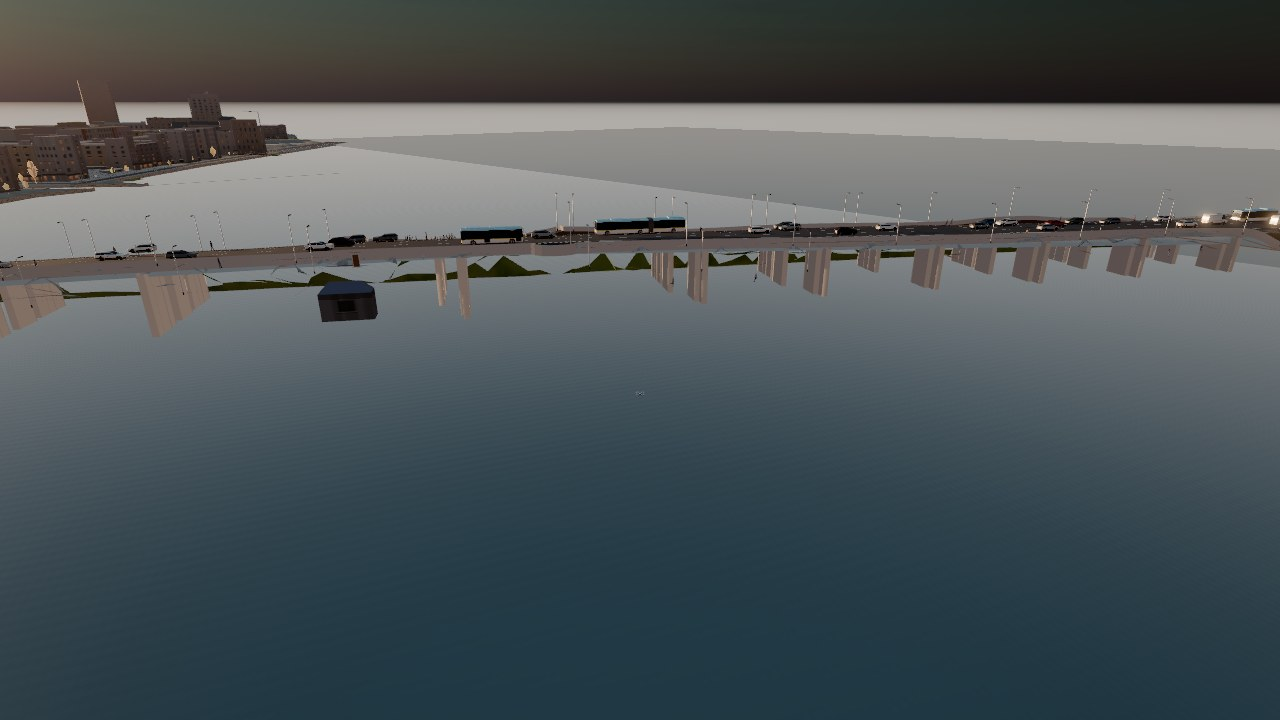
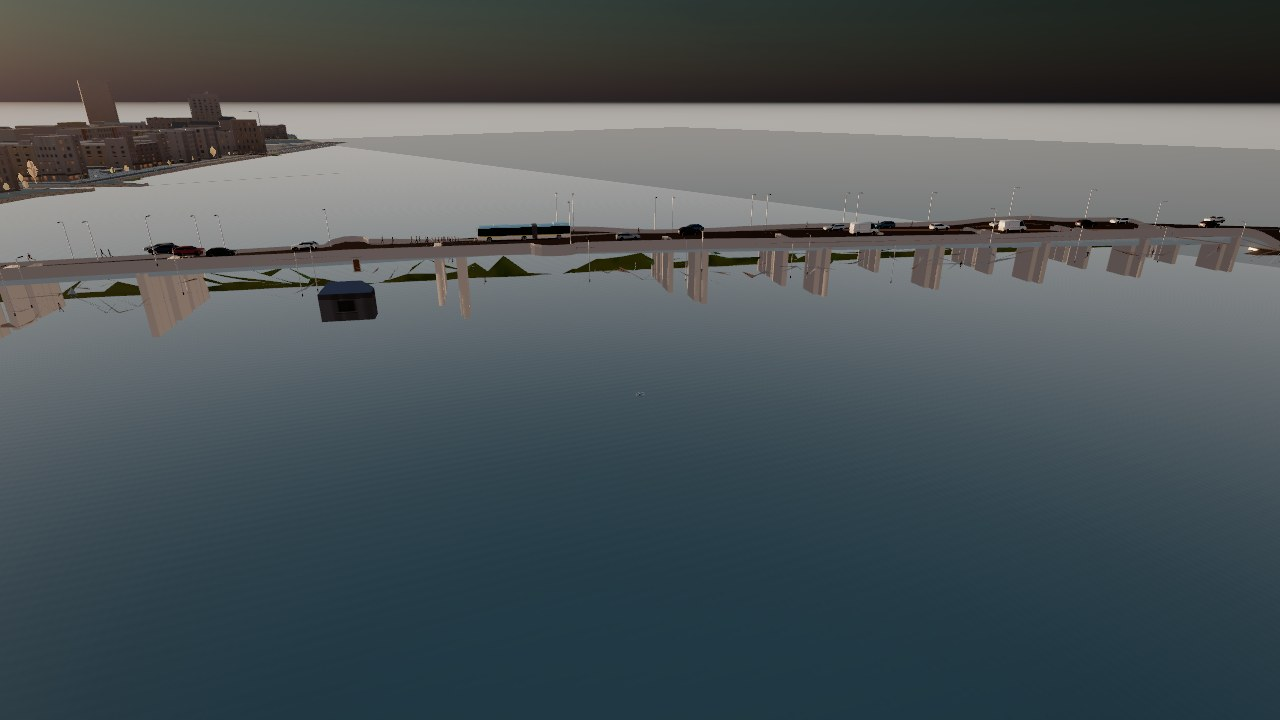
Cut the terrain under bridge decks
The compiled terrain carried many bridges (a ridge across the fjord, a mound
over the railway at Vesterbro), so tracks and road markings ran over the
decks. city_structures.py now sets the terrain under every deck to the
ground beside it, across the nearest carried way (the bed, 1 m under the
water, over water), lowering only: 5,341 cells in 11 tiles. Deck heights
are measured before the cut; each tile's original terrain is kept in
data/city/work/terrain_orig/ so a rerun gives the same result. The decks'
ground and the tracks are taken from the cut terrain.

Furniture stands on the decks again (the lamps on a bridge stay on it), and
the tree build drops any tree inside a deck's footprint. Ground off the
compiled terrain keeps its earlier value (no NaN in the layer).

Changed region(s): [[0.0625, 0.275, 1.0, 0.3972], [0.0312, 0.3972, 0.125, 0.4278], [0.0, 0.3667, 0.0312, 0.3972]]

diff --git a/js/world.js b/js/world.js
@@ -760,9 +760,6 @@ async function buildStreamedWorld(scene, store, { markInit, debug, water, treeDa
   // bridge decks and railway tracks (the `structures` layer): the ground model stands on the decks (js/deck-field.js withDecks), so the
   // agents, the furniture and the player drive and walk over a bridge; levelAt keeps what passes under it under it
   const deckField = createDeckField();
-  // the ground without the decks: street furniture stands on it (a tree beside or under a bridge is not on its deck; where the terrain
-  // carries a bridge, as across the fjord, the lamps on it stand on the deck all the same)
-  const groundOffDecks = { heightAt: tiledHeight.heightAt, terrainAt: tiledHeight.terrainAt };
   Object.assign(tiledHeight, withDecks(deckField, { heightAt: tiledHeight.heightAt, terrainAt: tiledHeight.terrainAt }));
   if (!flags.has('nostructures')) {
     const structures = createStructuresLayer(scene, { field: deckField });
@@ -823,7 +820,7 @@ async function buildStreamedWorld(scene, store, { markInit, debug, water, treeDa
 
   let furniture = null;
   if (roads && !flags.has('nofurniture') && city.meta.furniture) {
-    furniture = createStreetFurniture(scene, null, { streaming: true, treeDate, groundHeight: groundOffDecks, lakeDistance: lakes?.lakeDistance || null, adoptMesh });
+    furniture = createStreetFurniture(scene, null, { streaming: true, treeDate, groundHeight: tiledHeight, lakeDistance: lakes?.lakeDistance || null, adoptMesh });
     const zonesOn = !flags.has('noplace');
     const M = 30;
     layers.push({
@@ -845,7 +842,7 @@ async function buildStreamedWorld(scene, store, { markInit, debug, water, treeDa
           }
         }
         furniture.addTile(ctx.id, doc, { place });
-        staticIndex.set(`f:${ctx.id}`, buildStaticColliders(null, { furniturePlan: furniture.tilePlan(ctx.id), carSpecs: BODY_SPECS, groundHeight: groundOffDecks }));
+        staticIndex.set(`f:${ctx.id}`, buildStaticColliders(null, { furniturePlan: furniture.tilePlan(ctx.id), carSpecs: BODY_SPECS, groundHeight: tiledHeight }));
       },
       remove: (id) => { furniture.removeTile(id); staticIndex.remove(`f:${id}`); }
     });

diff --git a/tools/geodata/city_structures.py b/tools/geodata/city_structures.py
@@ -28,6 +28,7 @@ Map data © OpenStreetMap contributors (ODbL); DHM © Klimadatastyrelsen (CC BY 
 """
 from __future__ import annotations
 
+import base64
 import glob
 import json
 import math
@@ -48,6 +49,10 @@ import frame  # noqa: E402
 ROOT = Path(__file__).resolve().parents[2]
 RAW_OSM = ROOT / "data" / "raw" / "city" / "osm_api"
 VEG = ROOT / "data" / "raw" / "veg"
+TERRAIN_ORIG = ROOT / "data" / "city" / "work" / "terrain_orig"  # each tile's terrain layer as the compiler wrote it
+UNDER_REACH_M = 2.5  # the ground beside a deck is sampled this far out from its edge
+SINK_M = 1.0  # the ground under a bridge over water lies this far under the water level
+UNDER_MIN_DROP_M = 0.3  # a terrain cell under a deck is lowered when the ground beside it lies this much lower
 VERSION = "aalborg-structures/1"
 DECK_STEP_M = 2.0
 RING_STEP_M = 3.0
@@ -87,6 +92,15 @@ class Heights:
         import rasterio
 
         self.dtm = CW.Dtm(tiles_dir, meta["terrain"])
+        # the terrain as the compiler made it: a rerun reads the tiles' originals (write_terrain keeps them), not its own edits
+        for bp in sorted(TERRAIN_ORIG.glob("*.json")):
+            c = (read_json(bp) or {}).get("chunk")
+            if c:
+                a = np.frombuffer(base64.b64decode(c["data"]), dtype="<i2").reshape(c["h"], c["w"]).astype(np.float32) / 100.0
+                i0 = round((c["x0"] - self.dtm.x0) / self.dtm.cell)
+                j0 = round((c["z0"] - self.dtm.z0) / self.dtm.cell)
+                self.dtm.grid[j0:j0 + c["h"], i0:i0 + c["w"]] = a
+        self.orig = self.dtm.grid.copy()
         # the water the water build made (city_water.py): under a bridge over it the ground is the water, not the terrain (the compiled
         # terrain carries the fjord bridges' decks across the water)
         self.water, self.levels = [], []
@@ -213,6 +227,131 @@ def ring_with_ground(coords, H):
     return [round(v, 2) for p in pts for v in p], [round(float(v), 2) for v in g]
 
 
+def terrain_under_decks(decks, H) -> int:
+    """The compiled terrain carries many bridges (a ridge across the fjord, a mound over the railway): under every deck the terrain is
+    set to the ground beside the bridge, what the deck spans. A cell's ground is interpolated between the two points UNDER_REACH_M
+    outside the deck's edge across the nearest carried way (the water level where that point is over water); a cell is only lowered.
+    Works on H.dtm.grid in place (H.orig is the terrain as compiled); returns the number of cells lowered."""
+    grid, orig = H.dtm.grid, H.orig
+    x0, z0, cell = H.dtm.x0, H.dtm.z0, H.dtm.cell
+
+    def beside(x, z):
+        """Ground at (x, z) in the original terrain; over water the bed, SINK_M under the water level (the ground cut under a bridge
+        over water must not show through the water surface)."""
+        i = int(math.floor((x - x0) / cell))
+        j = int(math.floor((z - z0) / cell))
+        g = float(orig[j, i]) if 0 <= j < orig.shape[0] and 0 <= i < orig.shape[1] else float("nan")
+        if H.wtree is not None:
+            for k in H.wtree.query(shapely.points(x, z), predicate="within"):
+                bed = H.levels[k] - SINK_M
+                g = min(g, bed) if math.isfinite(g) else bed
+        return g
+
+    changed = 0
+    for d in decks:
+        g = d["_g"]
+        segs = []
+        for a in d["axes"]:
+            p = a["pts"]
+            for m in range(4, len(p), 4):
+                segs.append((p[m - 4], p[m - 3], p[m], p[m + 1]))
+        if not segs:
+            continue
+        edge = g.boundary
+        bx0, bz0, bx1, bz1 = g.bounds
+        i0, i1 = int(math.floor((bx0 - x0) / cell)), int(math.ceil((bx1 - x0) / cell))
+        j0, j1 = int(math.floor((bz0 - z0) / cell)), int(math.ceil((bz1 - z0) / cell))
+        for j in range(max(0, j0), min(grid.shape[0], j1 + 1)):
+            for i in range(max(0, i0), min(grid.shape[1], i1 + 1)):
+                cx, cz = x0 + (i + 0.5) * cell, z0 + (j + 0.5) * cell
+                if not shapely.contains_xy(g, cx, cz):
+                    continue
+                # the nearest carried way: across it is what the deck spans
+                best, tx, tz = float("inf"), 1.0, 0.0
+                for ax, az, bx, bz in segs:
+                    dx, dz = bx - ax, bz - az
+                    l2 = dx * dx + dz * dz or 1e-9
+                    s = max(0.0, min(1.0, ((cx - ax) * dx + (cz - az) * dz) / l2))
+                    dd = (ax + dx * s - cx) ** 2 + (az + dz * s - cz) ** 2
+                    if dd < best:
+                        l = math.sqrt(l2)
+                        best, tx, tz = dd, dx / l, dz / l
+                nx, nz = -tz, tx
+                samples = []
+                for sgn in (1.0, -1.0):
+                    ray = LineString([(cx, cz), (cx + sgn * nx * 80.0, cz + sgn * nz * 80.0)])
+                    hit = ray.intersection(edge)
+                    pts = [hit] if hit.geom_type == "Point" else [q for q in getattr(hit, "geoms", []) if q.geom_type == "Point"]
+                    if not pts:
+                        continue
+                    dist = min(math.hypot(q.x - cx, q.y - cz) for q in pts) + UNDER_REACH_M
+                    h = beside(cx + sgn * nx * dist, cz + sgn * nz * dist)
+                    if math.isfinite(h):
+                        samples.append((dist, h))
+                if not samples:
+                    continue
+                if len(samples) == 2:
+                    (d1, h1), (d2, h2) = samples
+                    under = (h1 * d2 + h2 * d1) / (d1 + d2)
+                else:
+                    under = samples[0][1]
+                if math.isfinite(orig[j, i]) and orig[j, i] - under > UNDER_MIN_DROP_M:
+                    grid[j, i] = under
+                    changed += 1
+    return changed
+
+
+def regrounded(d, H):
+    """The deck's ground (ringG, holesG, the axes' ground y) and clearance from the terrain as it now is under it."""
+    def again(ring, before):
+        # off the compiled terrain (a deck running out of the district) the earlier ground stands
+        g = H.ground(np.array(ring[0::2]), np.array(ring[1::2]))
+        return [round(float(v), 2) if np.isfinite(v) else b for v, b in zip(g, before)]
+
+    d["ringG"] = again(d["ring"], d["ringG"])
+    d["holesG"] = [again(h, hg) for h, hg in zip(d["holes"], d["holesG"])]
+    clear = 0.0
+    for a in d["axes"]:
+        p = a["pts"]
+        gs = H.ground(np.array(p[0::4]), np.array(p[1::4]))
+        for k, gv in enumerate(gs):
+            if np.isfinite(gv):
+                p[4 * k + 3] = round(float(gv), 2)
+            clear = max(clear, p[4 * k + 2] - p[4 * k + 3])
+    d["clear"] = round(clear, 2)
+
+
+def write_terrain(tiles_dir: Path, H, ids) -> int:
+    """Each tile's terrain chunk from H.dtm.grid; the compiler's original goes to TERRAIN_ORIG once. A tile where no cell changed gets its
+    original back. Returns the number of tiles written with lowered cells."""
+    TERRAIN_ORIG.mkdir(parents=True, exist_ok=True)
+    n = 0
+    for tid in ids:
+        path = tiles_dir / tid / "terrain.json"
+        backup = TERRAIN_ORIG / f"{tid}.json"
+        doc = read_json(backup) if backup.exists() else read_json(path)
+        c = (doc or {}).get("chunk")
+        if not c:
+            continue
+        i0 = round((c["x0"] - H.dtm.x0) / H.dtm.cell)
+        j0 = round((c["z0"] - H.dtm.z0) / H.dtm.cell)
+        new = H.dtm.grid[j0:j0 + c["h"], i0:i0 + c["w"]]
+        old = H.orig[j0:j0 + c["h"], i0:i0 + c["w"]]
+        if np.allclose(np.nan_to_num(new), np.nan_to_num(old)):
+            if backup.exists():  # no deck over this tile any more: the original back
+                path.write_text(backup.read_text(encoding="utf-8"), encoding="utf-8")
+                backup.unlink()
+            continue
+        if not backup.exists():
+            backup.write_text(path.read_text(encoding="utf-8"), encoding="utf-8")
+        cm = np.round(np.nan_to_num(new, nan=0.0) * 100).astype("<i2")
+        out = dict(doc)
+        out["chunk"] = {**c, "data": base64.b64encode(cm.tobytes()).decode("ascii")}
+        path.write_text(json.dumps(out, separators=(",", ":"), ensure_ascii=False), encoding="utf-8")
+        n += 1
+    return n
+
+
 def build(tiles_dir: Path, city_dir: Path) -> dict:
     from pyproj import Transformer
 
@@ -293,7 +432,11 @@ def build(tiles_dir: Path, city_dir: Path) -> dict:
             holes_g.append(hg)
         decks.append({"id": f"deck:{len(decks)}", "name": names[0] if names else "", "kind": kind, "ring": ext, "ringG": ext_g, "holes": holes,
                       "holesG": holes_g, "axes": axes, "clear": round(clear, 2), "_g": g})
-    log(f"decks: {len(decks)} structures, {sum(d['_g'].area for d in decks) / 1e4:.2f} ha; {sum(1 for d in decks if d['clear'] > 2.5)} stand over 2.5 m")
+    changed = terrain_under_decks(decks, H)
+    for d in decks:
+        regrounded(d, H)
+    log(f"decks: {len(decks)} structures, {sum(d['_g'].area for d in decks) / 1e4:.2f} ha; {sum(1 for d in decks if d['clear'] > 2.5)} stand over 2.5 m; "
+        f"terrain lowered under them in {changed} cells")
 
     # ---- rails
     rails = []
@@ -338,7 +481,8 @@ def build(tiles_dir: Path, city_dir: Path) -> dict:
         if ds or rs:
             out[tid] = {"tile": tid, "decks": [{k: v for k, v in d.items() if k != "_g"} for d in sorted(ds, key=lambda d: d["id"])],
                         "rails": [{k: v for k, v in r.items() if k != "_g"} for r in sorted(rs, key=lambda r: r["id"])]}
-    return {"tiles": out, "stats": {"decks": len(decks), "deck_ha": round(sum(d["_g"].area for d in decks) / 1e4, 2),
+    terrain_tiles = write_terrain(tiles_dir, H, ids)
+    return {"terrain_tiles": terrain_tiles, "tiles": out, "stats": {"decks": len(decks), "deck_ha": round(sum(d["_g"].area for d in decks) / 1e4, 2),
                                     "high_decks": sum(1 for d in decks if d["clear"] > 2.5), "rails": len(rails),
                                     "rail_km": round(sum(r["_g"].length for r in rails) / 1000, 2), "tiles": len(out)}}
 
@@ -355,6 +499,7 @@ def update_manifest(city_dir: Path, key: str, value) -> None:
 def main() -> int:
     tiles_dir, city_dir = ROOT / "data" / "tiles", ROOT / "data" / "city"
     res = build(tiles_dir, city_dir)
+    log(f"terrain: {res['terrain_tiles']} tiles with the ground cut under their decks")
     sizes = {}
     for tid, lay in res["tiles"].items():
         text = json.dumps(lay, separators=(",", ":"), ensure_ascii=False)

diff --git a/tools/geodata/furniture_dk.py b/tools/geodata/furniture_dk.py
@@ -180,9 +180,11 @@ def build_trees(cells, bbox, buildings, water, token, roads=None):
                 if len(poly.get("ring", [])) >= 6:
                     solid.append(Polygon(utm_ring(poly["ring"])).buffer(0))
     # and the bridge decks (city_structures.py): the DSM over a deck is the deck, not a crown
+    deck_polys = []
     for sp in sorted(BC.TILES_DIR.glob("*/structures.json")):
         for deck in (json.loads(sp.read_text(encoding="utf-8")).get("decks") or []):
             if len(deck.get("ring", [])) >= 6:
+                deck_polys.append(Polygon([(deck["ring"][i], deck["ring"][i + 1]) for i in range(0, len(deck["ring"]), 2)]).buffer(0))
                 solid.append(Polygon(utm_ring(deck["ring"])).buffer(0.5))
     blocked = geometry_mask([g for g in solid if not g.is_empty], (H, W), T, invert=True) if solid else np.zeros((H, W), bool)
     canopy = (nd > NDSM_TREE) & ~blocked
@@ -266,7 +268,15 @@ def build_trees(cells, bbox, buildings, water, token, roads=None):
             per_label[tr[3]] = per_label.get(tr[3], 0) + 1
     areas = np.bincount(labels.ravel())
     out = []
+    # no tree in a bridge deck's footprint: the terrain under a deck is cut down to what it spans, and the engine stands what is inside the
+    # footprint on the deck
+    from shapely import STRtree as _STRtree, points as _points
+    deck_tree = _STRtree(deck_polys) if deck_polys else None
+    n_deck = 0
     for x, z, rec, lab in trees:
+        if deck_tree is not None and len(deck_tree.query(_points(x, z), predicate="within")):
+            n_deck += 1
+            continue
         h = height_at(x, z)
         cf = {}
         if h is not None and h >= 3.0:
@@ -290,7 +300,7 @@ def build_trees(cells, bbox, buildings, water, token, roads=None):
         if rec.get("detected"):
             item["canopy_added"] = True
         out.append(item)
-    stats = {"geodanmark": sum(1 for t in out if t["src"][0].startswith("geodanmark")), "osm": n_osm, "detected": n_det, "detected_over_road": n_road,
+    stats = {"geodanmark": sum(1 for t in out if t["src"][0].startswith("geodanmark")), "osm": n_osm, "detected": n_det, "detected_over_road": n_road, "in_deck_footprint": n_deck,
              "measured_height": sum(1 for t in out if t["conf_fields"].get("height") == "measured")}
     log(f"trees {len(out)}: {stats}")
     return out, stats

diff --git a/tools/geodata/tests/test_structures.py b/tools/geodata/tests/test_structures.py
@@ -1,0 +1,30 @@
+"""city_structures.terrain_under_decks: under a bridge the terrain becomes the ground beside it, so what the bridge spans runs under it."""
+import types
+
+import numpy as np
+from shapely.geometry import Polygon
+
+import city_structures as CS
+
+
+def test_a_deck_on_flat_ground_changes_nothing():
+    grid = np.zeros((50, 50), np.float32)
+    H = types.SimpleNamespace(dtm=types.SimpleNamespace(grid=grid, x0=0.0, z0=0.0, cell=2.0), orig=grid.copy(), wtree=None, levels=[])
+    d = {"_g": Polygon([(20, 45), (80, 45), (80, 55), (20, 55)]), "axes": [{"pts": [20, 50, 0.5, 0, 80, 50, 0.5, 0]}]}
+    assert CS.terrain_under_decks([d], H) == 0
+    assert np.array_equal(H.dtm.grid, H.orig)
+
+
+def test_a_deck_across_a_cutting_lowers_the_terrain_to_the_cutting():
+    # the terrain carries the deck (6 m over z 45..55) across a cutting at 0 m: beside the deck across its way (z < 45, z > 55) is 0 m
+    grid = np.zeros((50, 50), np.float32)
+    grid[22:28, :] = 6.0  # the deck's ridge, z 44..56
+    H = types.SimpleNamespace(dtm=types.SimpleNamespace(grid=grid, x0=0.0, z0=0.0, cell=2.0), orig=grid.copy(), wtree=None, levels=[])
+    d = {"_g": Polygon([(20, 45), (80, 45), (80, 55), (20, 55)]), "axes": [{"pts": [20, 50, 6, 6, 80, 50, 6, 6]}]}
+    changed = CS.terrain_under_decks([d], H)
+    assert changed > 0
+    inside = H.dtm.grid[23:27, 11:39]  # cells whose centres lie in the deck
+    assert float(inside.max()) < 0.5, inside.max()  # down to the cutting's floor
+    assert float(H.dtm.grid[22:28, :8].min()) == 6.0, "outside the deck the ridge stays"
+    # only ever lowered
+    assert (H.dtm.grid <= H.orig + 1e-6).all()

diff --git a/docs/aalborg-structures.md b/docs/aalborg-structures.md
@@ -4,8 +4,15 @@ Three kinds of geodata the twin was missing: watercourses (GeoDanmark vandløbsm
 
 ```sh
 uv run tools/geodata/city_water.py --fetch      # the GeoDanmark layers, watercourses included (once), then the water build
-PYTHONUTF8=1 uv run tools/geodata/city_structures.py      # bridges and railways (after the water: the ground under a deck over water)
+PYTHONUTF8=1 uv run tools/geodata/city_structures.py      # bridges and railways, and the terrain cut under the decks (after the water)
 uv run tools/geodata/build_city.py --osm-source api --stage furniture --stage index --force furniture   # trees off the decks and the water
+```
+
+`city_structures.py` edits the tiles' terrain layers, so the index stage runs after it. It keeps each tile's original terrain in
+`data/city/work/terrain_orig/` and always starts from that, so a rerun gives the same terrain. After a terrain rebuild (`--stage cells`),
+delete that folder and run it again.
+
+```sh
 ```
 
 ## Watercourses
@@ -35,8 +42,14 @@ furniture stage caches.
 - The ground under a deck is the water where the deck is over water, else the terrain. The build stores it with every outline vertex
   and axis station, so the engine needs no terrain to draw a deck that spans tiles.
 
-**Result:** 34 structures, 3 ha; 6 stand more than 2.5 m over the ground (Limfjordsbroen up to 8 m over the fjord, Østre Allé 8 m
-over the railway).
+**The terrain under a deck.** The compiled terrain carried many bridges: a ridge across the fjord along Limfjordsbroen, a mound
+over the railway at Vesterbro. Under every deck, the terrain is now set to the ground beside the bridge. Each cell takes a value between
+the two points 2.5 m outside the deck's edge, across the nearest carried way, so a railway cutting or a road runs on under the bridge.
+Over water that ground is the bed, 1 m under the water level. Cells are only ever lowered: 5,341 of them in 11 tiles. Deck heights are
+measured on the terrain as compiled, before the cut.
+
+**Result:** 34 structures, 3 ha; 13 stand more than 2.5 m over the ground (Limfjordsbroen up to 12 m over the fjord, Østre Allé 8 m
+over the railway, Vesterbro 4 m over the tracks).
 
 **Engine** (`js/structures.js`, `js/structures-geometry.js`, `js/deck-field.js`):
 - **Geometry.** A deck has its top, a soffit and fascia where it stands clear, and concrete parapets on road and rail decks (railings on
@@ -46,29 +59,33 @@ over the railway).
   and cyclists (`agentLevel`: each one's last ground, reset by a jump of more than 5 m, a respawn) use it: what drives or walks onto a
   bridge stays on, what passes under stays under. Near Østre Allé, 9 of 10 pedestrians seen in a raised deck's footprint walked under
   it, and the cyclists on the cycle bridges rode on them.
-- **Road surfaces.** The road worker drops the draped surface triangles under a deck that stands clear of the terrain (the deck is drawn
-  there). Where the terrain already carries a bridge (the fjord bridges: the compiled terrain runs across the water at deck height), it
-  drops only the steep triangles, the kerb skirts that hung from the deck down to the water.
-- **Furniture** stands on the ground without the decks: a tree beside or under a bridge is not lifted onto it. The tree build masks
-  the decks for detected crowns (the DSM over a deck is the deck).
+- **Road surfaces.** The road worker drops the draped surface triangles under a deck that stands clear of the terrain, so no lane
+  marking, kerb or cycle lane lies on or under a raised deck; the deck draws its own plain top. Steep triangles (kerb skirts) within
+  3 m of a deck over its ground go too.
+- **Furniture** stands on the decks, so the lamps on a bridge stay on it now that the terrain under it is cut away. No tree stands in
+  a deck's footprint: the tree build masks the decks for detected crowns (the DSM over a deck is the deck) and drops any tree inside one.
 
 ## Railways
 
 OSM `railway=rail` and disused tracks, not in tunnels: 69 tracks, 13.7 km (main, branch, siding, yard; 8 disused).
 - Each track is a ballast bed with concrete sleepers painted on it and two rails at the standard gauge (1435 mm). A disused track has
   dark, rusty rails.
-- Tracks lie at the terrain height, or on their deck where they are tagged a bridge. The build stores the heights every 4 m.
+- Tracks lie at the terrain height (cut under the decks, so a track passes under a bridge), or on their deck where they are tagged a
+  bridge. The build stores the heights every 4 m.
 
 ## Not done
 
-- **Waterline fragments.** Small green ground pieces are left at the waterline along Limfjordsbroen, where the water's ground cut meets
-  the bridge strip.
+- **Waterline fragments.** A few small green ground pieces still show at the waterline under Limfjordsbroen, where the water outline
+  leaves gaps along the bridge.
+- **Under a bridge.** A road under a bridge has no surface for the bridge's width (the deck above, the bare ground under it), and a lamp
+  in a deck's footprint stands on the deck even when it is under it.
 - **Bridge shapes.** Every bridge has the same section: no bascule span on Limfjordsbroen, no truss on Jernbanebroen, no stairs or ramps
   modelled apart from the terrain.
-- **The deck top.** Under a raised deck the deck's own top is plain (asphalt, paving or ballast): the road markings are not redrawn on it.
+- **The deck top.** A raised deck's top is plain (asphalt, paving or ballast): the road markings are not redrawn on it.
 - **Trains.** None run.
 - **Platforms.** `railway=platform` and the station are not modelled.
 - **Watercourse levels.** They are a stand-in (the terrain percentile), not a surveyed water level.
 
 Shots: `docs/structures/limfjordsbroen.jpg` (the deck on its piers over the fjord, traffic and Plusbuses on it),
+`docs/structures/vesterbro-bridge.jpg` (the railway running under Vesterbro),
 `docs/structures/railway.jpg` (two tracks by the harbour). `?debug=nostructures` switches the layer off.
